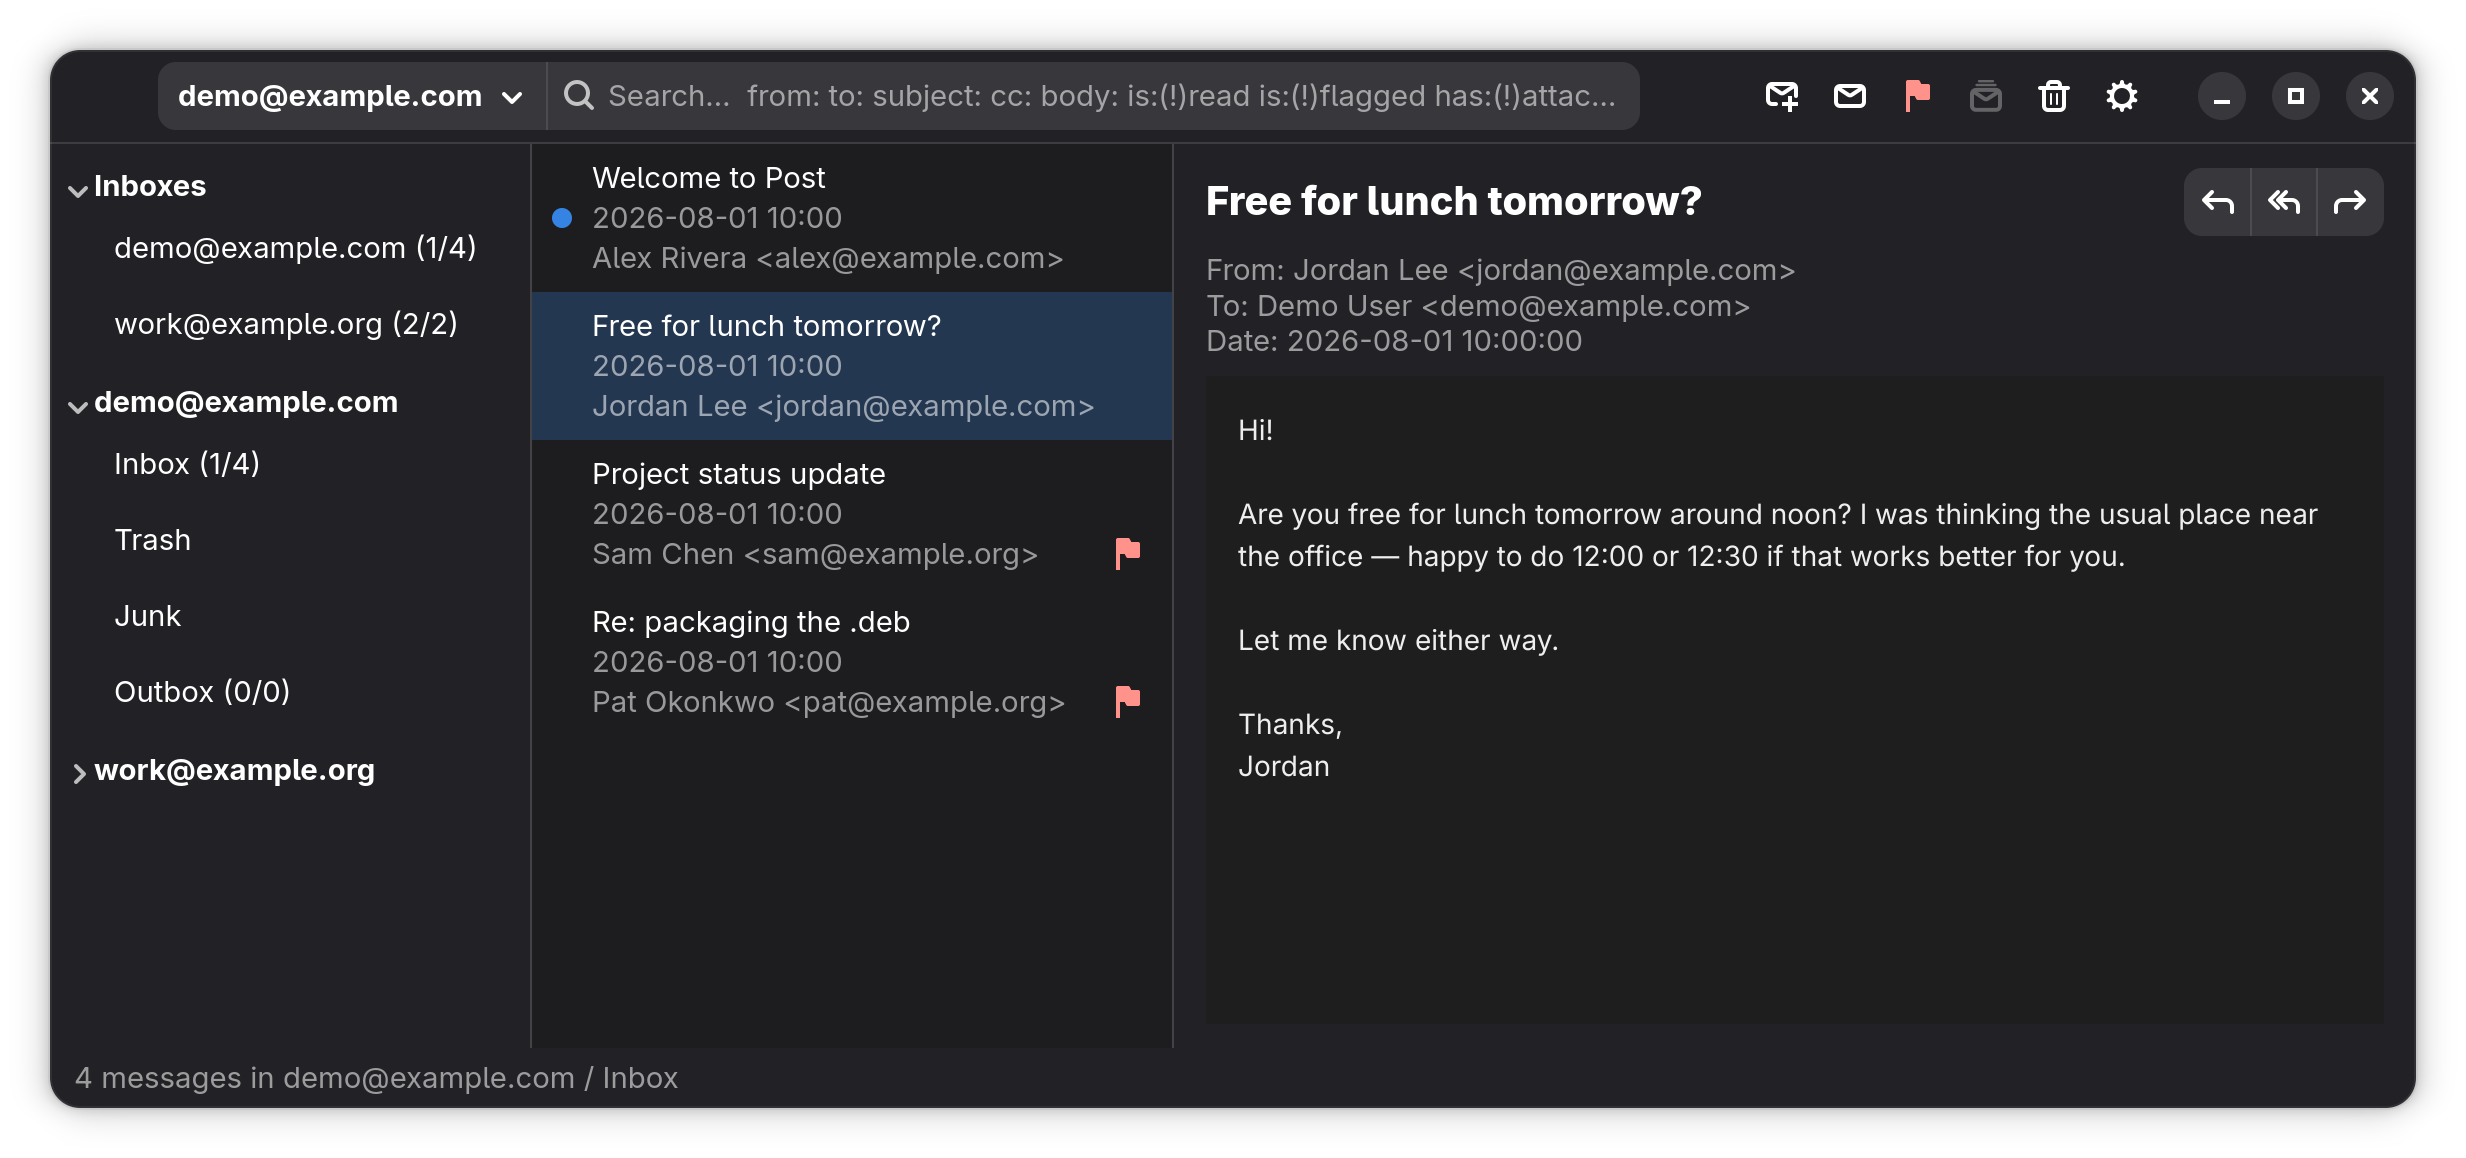
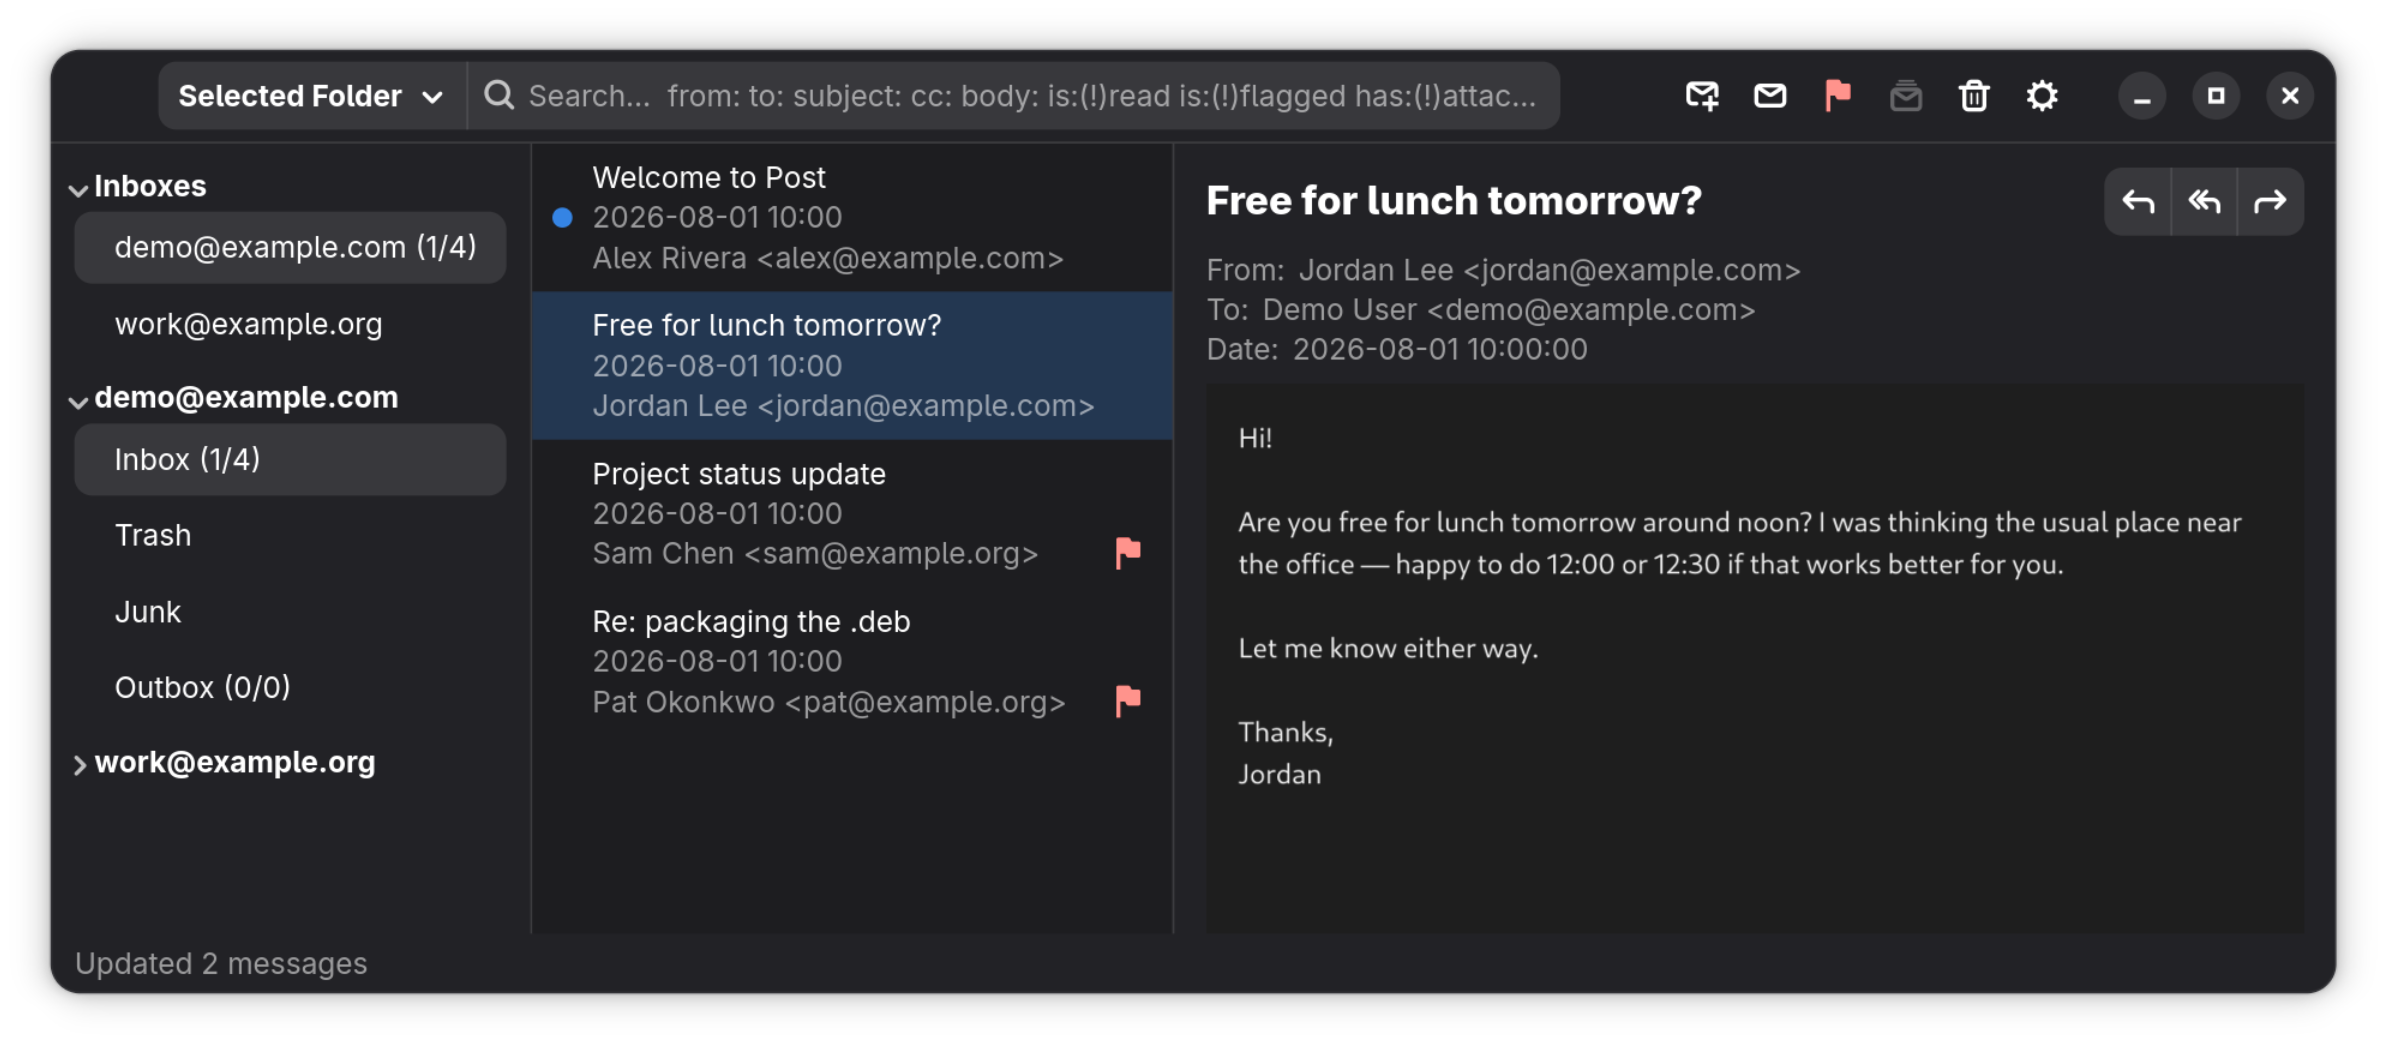
Refresh the landing-page screenshot for the current UI.
Replace the Aug 1 hero capture and match width/height in the Pages markup.

diff --git a/docs/index.html b/docs/index.html
@@ -40,8 +40,8 @@
       <div class="hero-visual">
         <img
           src="assets/post-screenshot.png"
-          width="2466"
-          height="1158"
+          width="2386"
+          height="1044"
           alt="Post showing a message list and reader pane with demo mail accounts"
         >
       </div>
